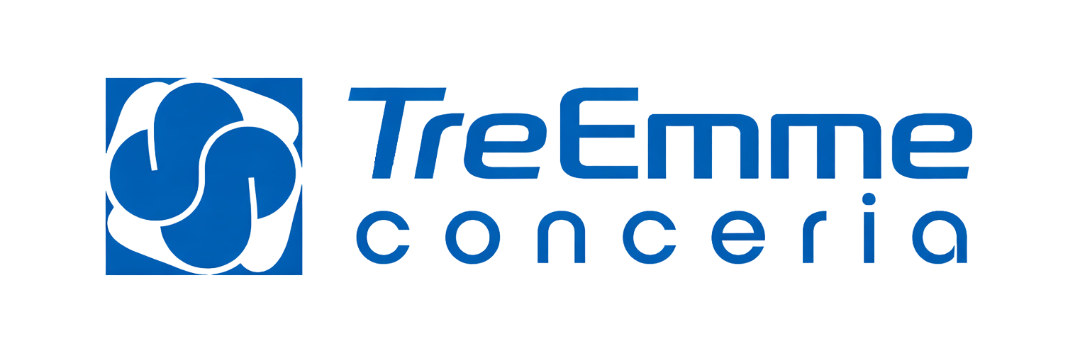
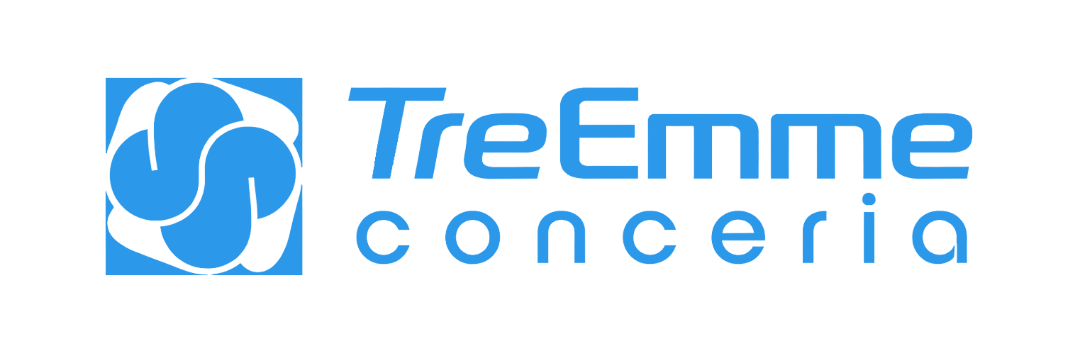
fix(ui): update watermark opacity, correct Italian translation, and adjust primary theme color

Changed region(s): [[0.0917, 0.2151, 0.9167, 0.7682]]

diff --git a/src/features/panels/PanelContainerPage.tsx b/src/features/panels/PanelContainerPage.tsx
@@ -33,7 +33,7 @@ const PanelContainerPage = () => {
                 <DockviewReact
                     watermarkComponent={() => (
                         <Box sx={{display: 'flex', alignItems: 'center', justifyContent: 'center', height: 'calc(100vh - 48px)', width: '100%'}}>
-                            <img src={"imgs/watermark.png"} alt="Watermark" style={{opacity: 0.3}} width={600} />
+                            <img src={"imgs/watermark.png"} alt="Watermark" width={600} />
                         </Box>
                     )}
                     theme={isLightTheme

diff --git a/src/shared/themes/defaultThemeGlobal.ts b/src/shared/themes/defaultThemeGlobal.ts
@@ -3,7 +3,7 @@ import {createTheme, type Theme, type ThemeOptions} from '@mui/material/styles';
 
 const getPrimaryColors = () => {
     return {
-        main: '#3c8fd3',
+        main: '#2b98ea',
         dark: '#41689b',
         light: '#5590c3',
     };
